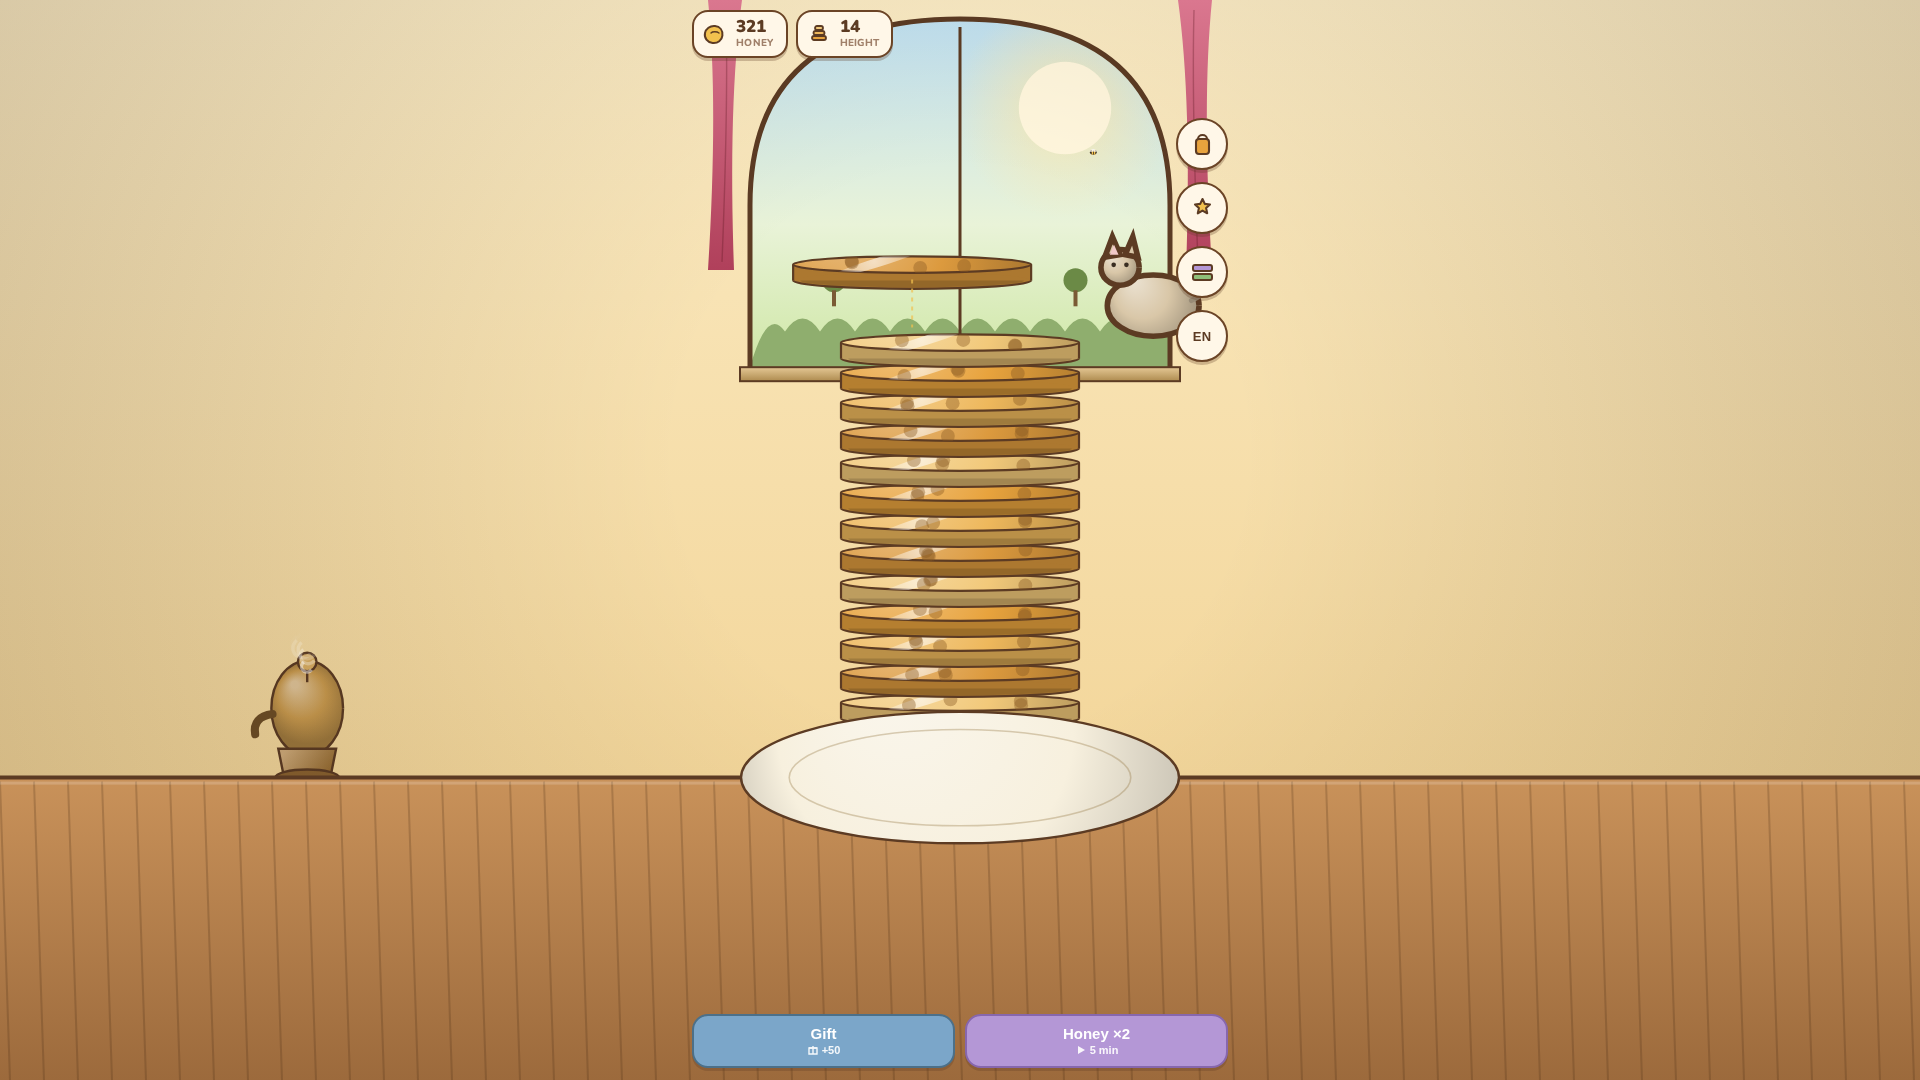
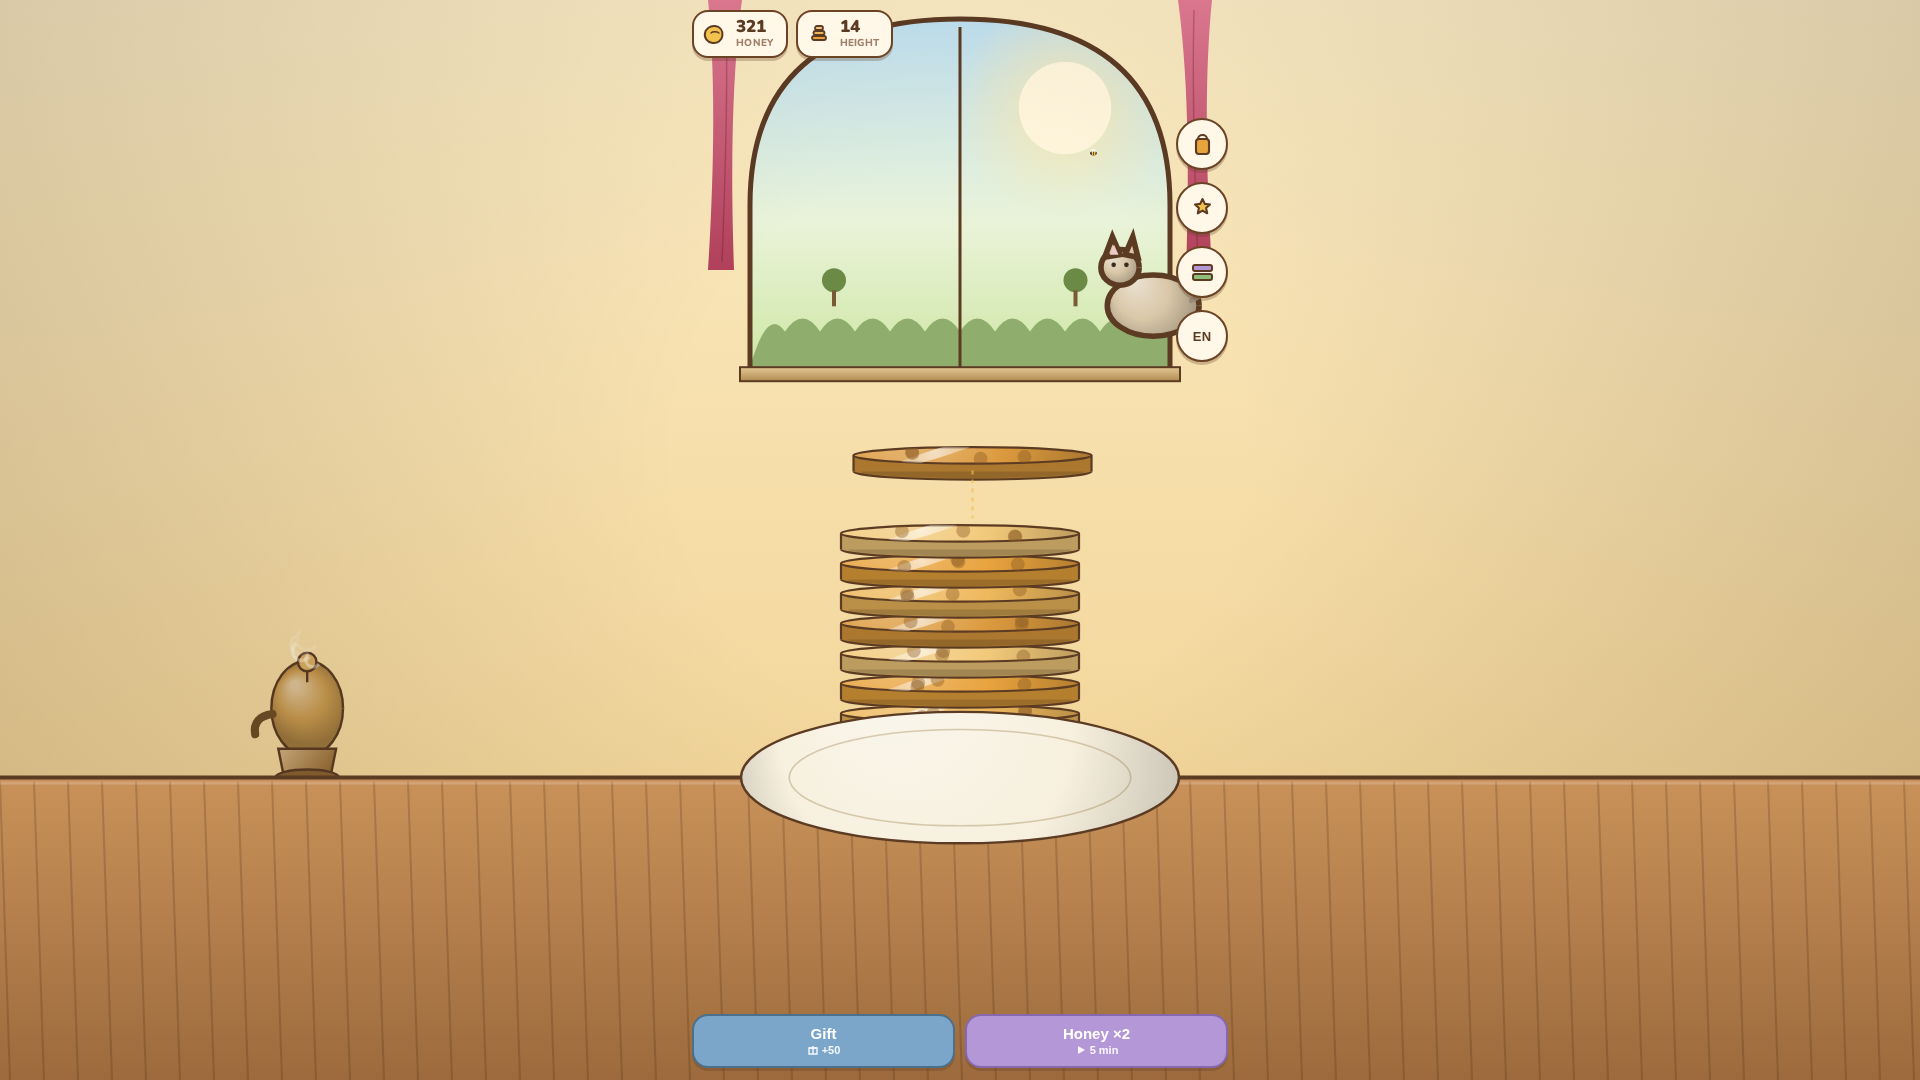
Pass 1: fix pancake/cat overlap on tall stack, mark release-ready
Camera scroll clamp (viewTopY) was 0.30H, putting the hovering next-pancake
too close to the window/cat once the stack got tall enough to scroll -
confirmed by geometry and screenshots. Raised to 0.48H so there's a safe
gap below the window at all viewports. Smoke green 3x before and after,
assets and zip rebuilt from the updated build.

Changed region(s): [[0.4375, 0.3056, 0.5625, 0.6722], [0.4062, 0.2139, 0.5625, 0.275]]

diff --git a/index.html b/index.html
@@ -451,7 +451,7 @@ function resize(){
   samX=W*0.16; samY=groundY;
   layerH=Math.max(18,Math.min(30,H*0.052));
   ampX=Math.min(W*0.32,160);
-  viewTopY=H*0.30;
+  viewTopY=H*0.48;
   plateX=W*0.5;
   INK=cssVar("--ink")||INK; PAPER=cssVar("--paper")||PAPER;
   buildScenery();
